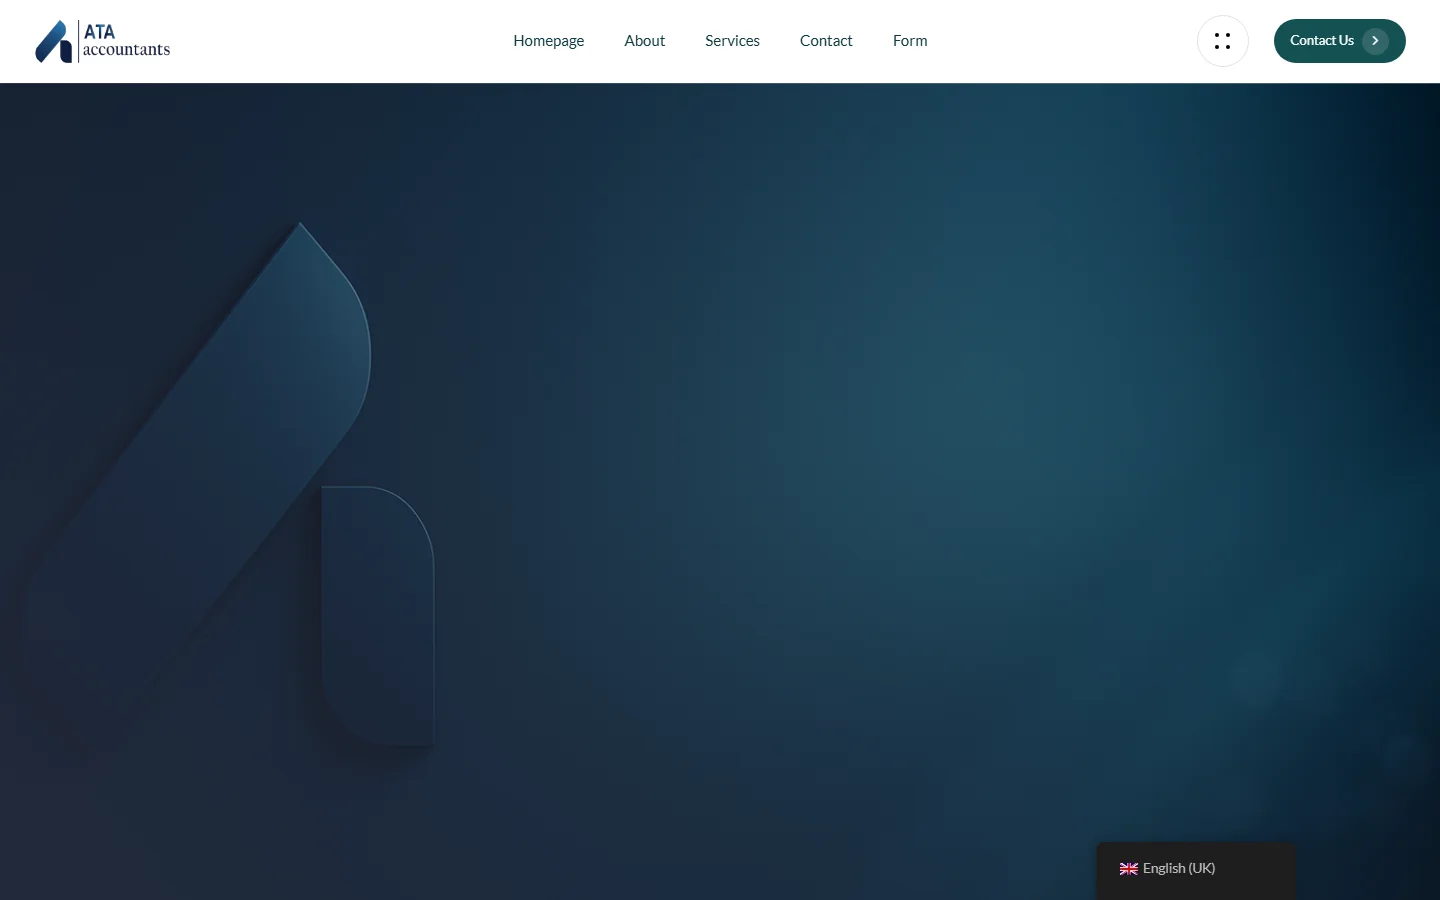
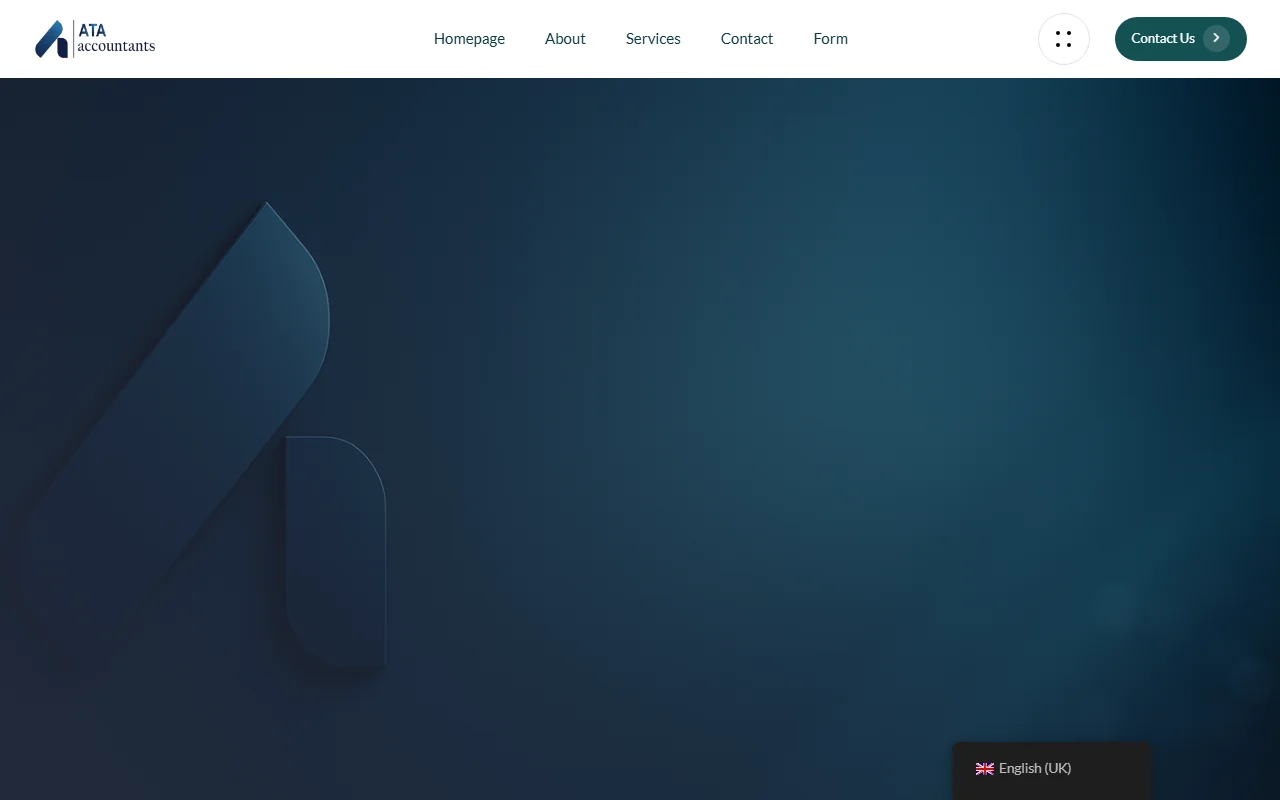
feat: add University of NorthWest to portfolio + refresh ataaccountancy screenshots
- Add northwest.ac as project #12 (UK, Higher Education, featured)
- Desktop + mobile screenshots with 20s load wait
- i18n keys added for EN, FR, NL, DE
- Fresh ataaccountancy.com screenshots replacing old ones

diff --git a/src/lib/portfolio-data.ts b/src/lib/portfolio-data.ts
@@ -308,6 +308,28 @@ export const projects: Project[] = [
     metrics: { lighthouse: 95, loadTime: "<1.5s", improvement: "+55%" },
     featured: false,
   },
+  {
+    id: "northwest-ac",
+    num: "12",
+    name: "UNIVERSITY OF NORTHWEST",
+    sectorKey: "projects.northwest.sector",
+    country: "UK",
+    countryNameKey: "projects.northwest.country",
+    flag: "\u{1F1EC}\u{1F1E7}",
+    url: "https://northwest.ac",
+    imageDesktop: "/portfolio/northwest-desktop.webp",
+    imageMobile: "/portfolio/northwest-mobile.webp",
+    tech: ["React", "Vite", "TypeScript", "Tailwind"],
+    accentColor: "neo-yellow",
+    descriptionKey: "projects.northwest.description",
+    category: "web",
+    year: "2025",
+    challengeKey: "projects.northwest.challenge",
+    solutionKey: "projects.northwest.solution",
+    resultsKeys: ["projects.northwest.result1", "projects.northwest.result2", "projects.northwest.result3"],
+    metrics: { lighthouse: 96, loadTime: "<1.4s", improvement: "+45%" },
+    featured: true,
+  },
 ];
 
 export const featuredProjects = projects.filter((p) => p.featured);
